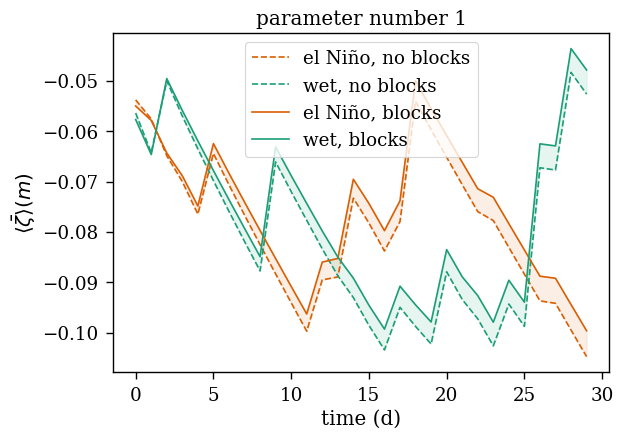
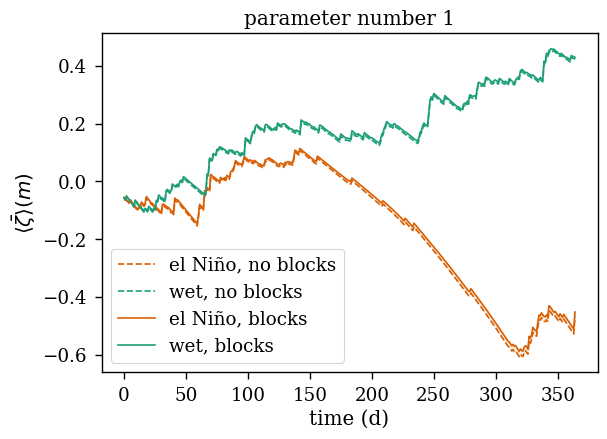
plots changes

diff --git a/classes/parameterizations.py b/classes/parameterizations.py
@@ -424,7 +424,7 @@ class ExponentialBelowOneAboveStorageWithDepth(AbstractParameterization):
         - T = \alpha * \zeta + \beta
     Below the surface:
         - S = s_1 e^{s2 * \zeta}
-        - T = t_1 * e^{t_2*\zeta}
+        - T = t_1 * (e^{t_2*\zeta} - e^{-t_2 * depth)}
     """
 
     def get_theta_knot(self, dem):
@@ -506,7 +506,7 @@ class ExponentialBelowOneAboveStorageWithDepth(AbstractParameterization):
 
         return diff_coeff
 
-    
+
     """
     Plotting stuff
     """
@@ -540,6 +540,138 @@ class ExponentialBelowOneAboveStorageWithDepth(AbstractParameterization):
         beta = t1/s1
         
         tra_pos = alpha*zeta_pos + beta
+        tra_neg = t1*(np.exp(t2*zeta) - np.exp(t2*b))
+
+        return tra_pos*positives_mask + tra_neg*negatives_mask
+
+
+class ExponentialBelowOneAboveStorageWithDepthExpoTrans(AbstractParameterization):
+    """
+    Storage and transmissivity are piecewise functions with 2 pieces:
+    below (zeta negative) and above (zeta positive) the surface.
+    S and T were chosen so that D is continuous and differentiable at the surface.
+    (This implies that T must be discontinuous, but that's fine!)
+    'WithDepth' means that the peat column depth is not neglected.
+
+    Main characteristics of this parameterization:
+    Above the surface:
+        - S = 1
+        - T = t3 * e^{t_4*\zeta}
+    Below the surface:
+        - S = s_1 e^{s2 * \zeta}
+        - T = t_1 * e^{t_2*\zeta}
+    """
+
+    def get_theta_knot(self, dem):
+        return self.s1/self.s2 * (1 - numerix.exp(-self.s2*dem))
+
+    def _get_piecewise_masks_in_theta(self, theta, dem):
+        theta_knot = self.get_theta_knot(dem)
+        mask_1 = 1*(theta >= theta_knot)
+        mask_2 = 1 - mask_1
+
+        return mask_1, mask_2
+
+    def _get_piecewise_masks_in_zeta(self, zeta):
+        positives_mask = 1*(zeta >= 0)
+        negatives_mask = 1 - positives_mask
+
+        return positives_mask, negatives_mask
+
+    def _mask_array_piecewise(self, arr, mask_1, mask_2):
+        return arr*mask_1, arr*mask_2
+
+    def theta_from_zeta(self, zeta, dem):
+        s1 = self.s1
+        s2 = self.s2
+
+        theta_knot = self.get_theta_knot(dem)
+        positives_mask, negatives_mask = self._get_piecewise_masks_in_zeta(
+            zeta)
+
+        theta_pos = zeta + theta_knot
+        theta_neg = s1/s2*(numerix.exp(s2*zeta) - numerix.exp(-s2*dem))
+
+        return theta_pos*positives_mask + theta_neg*negatives_mask
+
+    def zeta_from_theta(self, theta, dem):
+        s1 = self.s1
+        s2 = self.s2
+
+        theta_knot = self.get_theta_knot(dem)
+        mask_1, mask_2 = self._get_piecewise_masks_in_theta(theta, dem)
+
+        theta_knot_1, theta_knot_2 = self._mask_array_piecewise(
+            theta_knot, mask_1, mask_2)
+        theta_1, theta_2 = self._mask_array_piecewise(theta, mask_1, mask_2)
+
+        zeta_1 = theta_1 - theta_knot_1
+        zeta_2 = numerix.log(numerix.exp(-s2*dem) + s2/s1*theta)/s2
+
+        return zeta_1*mask_1 + zeta_2*mask_2
+
+    def diffusion(self, theta, dem, b):
+        s1 = self.s1
+        s2 = self.s2
+        t1 = self.t1
+        t2 = self.t2
+        
+        theta_knot = self.get_theta_knot(dem)
+        
+        mask_1, mask_2 = self._get_piecewise_masks_in_theta(theta, dem)
+
+        theta_1, theta_2 = self._mask_array_piecewise(theta, mask_1, mask_2)
+        dem_1, dem_2 = self._mask_array_piecewise(dem, mask_1, mask_2)
+        b_1, b_2 = self._mask_array_piecewise(b, mask_1, mask_2)
+        theta_knot_1, theta_knot_2 = self._mask_array_piecewise(theta_knot, mask_1, mask_2)
+
+        sto_2 = s1*numerix.exp(-s2*dem) + s2*theta_2
+        
+        depth_term = t1 * numerix.exp(-t2*b)/ sto_2
+        t3 = t1/s1 * (1 - numerix.exp(-t2*b))
+        t4 = (t2-s2)/s1 * 1/(1 - numerix.exp(-t2*b))
+        
+        diff_coeff_1 = t3 * numerix.exp(t4*(theta1 - theta_knot))
+        diff_coeff_2 = t1*sto_2**(t2/s2-1)/s1**(t2/s2) - depth_term
+        
+        diff_coeff = diff_coeff_1*mask_1 + diff_coeff_2*mask_2
+
+        return diff_coeff
+    
+    """
+    Plotting stuff
+    """
+    
+    def storage_from_zeta(self, zeta, dem):
+        import numpy as np
+        
+        positives_mask = 1*(zeta>0)
+        negatives_mask = 1 - positives_mask
+        zeta_pos, zeta_neg = self._mask_array_piecewise(zeta, positives_mask, negatives_mask)
+
+        sto_pos = 1
+        sto_neg = self.s1*np.exp(self.s2*zeta)
+
+        return sto_pos * positives_mask + sto_neg * negatives_mask
+
+
+    def transmissivity_from_zeta(self, zeta, dem, b):
+        import numpy as np
+        
+        s1 = self.s1
+        s2 = self.s2
+        t1 = self.t1
+        t2 = self.t2
+
+        t3 = t1/s1 * (1 - numerix.exp(-t2*b))
+        t4 = (t2-s2)/s1 * 1/(1 - numerix.exp(-t2*b))
+
+        positives_mask = 1*(zeta>0)
+        negatives_mask = 1 - positives_mask
+        zeta_pos, zeta_neg = self._mask_array_piecewise(zeta, positives_mask, negatives_mask)
+
+        
+        tra_pos = t3*(np.exp(t4*zeta))
         tra_neg = t1*(np.exp(t2*zeta) - np.exp(t2*b))
 
         return tra_pos*positives_mask + tra_neg*negatives_mask

diff --git a/results_plots.py b/results_plots.py
@@ -18,10 +18,10 @@ sns.set_context('paper', font_scale=1.5)
 
 # %% Params
 
-N_DAYS = 30
+N_DAYS = 365
 
-N_PARAMS = 2 
-params_to_plot = [1, 2]
+params_to_plot = [1, 2, 3, 4]
+N_PARAMS = len(params_to_plot)
 
 parent_folder = Path('.')
 output_folder = Path('output/plots')
@@ -496,8 +496,6 @@ axes[0,0].set_xlabel(r'$S$')
 axes[0,0].set_ylabel(r'$\zeta (m)$')
 axes[0,0].plot(S(zz, unique_s1_values[0], s2), zz,
              color='black', linestyle='solid')
-axes[0,0].plot(S(zz, unique_s1_values[1], s2), zz,
-             color='black', linestyle='dashed')
 
 # Transmissivity
 axes[0,1].grid(visible=True)
@@ -538,31 +536,18 @@ ax_D.grid(visible=True)
 ax_D.set_xlabel(r'$D(m^{2}d^{-1})$')
 ax_D.set_ylabel(r'$\zeta (m)$')
 # ax_D.set_xscale('log')
-ax_D.plot(D(zz, unique_t1_values[0], unique_t2_values[0], unique_s1_values[1], s2), zz,
+ax_D.plot(D(zz, unique_t1_values[0], unique_t2_values[0], unique_s1_values[0], s2), zz,
              color=param_colors[0], linestyle='solid',
              label='param_1')
-ax_D.plot(D(zz, unique_t1_values[0], unique_t2_values[1], unique_s1_values[1], s2), zz,
+ax_D.plot(D(zz, unique_t1_values[0], unique_t2_values[1], unique_s1_values[0], s2), zz,
              color=param_colors[1], linestyle='solid',
              label='param_2')
-ax_D.plot(D(zz, unique_t1_values[1], unique_t2_values[0], unique_s1_values[1], s2), zz,
+ax_D.plot(D(zz, unique_t1_values[1], unique_t2_values[0], unique_s1_values[0], s2), zz,
              color=param_colors[2], linestyle='solid',
              label='param_3')
-ax_D.plot(D(zz, unique_t1_values[1], unique_t2_values[1], unique_s1_values[1], s2), zz,
+ax_D.plot(D(zz, unique_t1_values[1], unique_t2_values[1], unique_s1_values[0], s2), zz,
              color=param_colors[3], linestyle='solid',
              label='param_4')
-ax_D.plot(D(zz, unique_t1_values[0], unique_t2_values[0], unique_s1_values[0], s2), zz,
-             color=param_colors[4], linestyle='solid',
-             label='param_5')
-ax_D.plot(D(zz, unique_t1_values[0], unique_t2_values[1], unique_s1_values[0], s2), zz,
-             color=param_colors[5], linestyle='solid',
-             label='param_6')
-ax_D.plot(D(zz, unique_t1_values[1], unique_t2_values[0], unique_s1_values[0], s2), zz,
-             color=param_colors[6], linestyle='solid',
-             label='param_7')
-ax_D.plot(D(zz, unique_t1_values[1], unique_t2_values[1], unique_s1_values[0], s2), zz,
-             color=param_colors[7], linestyle='solid',
-             label='param_8')
-
 
 # legend
 ax_D.legend()
@@ -634,4 +619,8 @@ ax_dry_twin.plot(range(len(dry_sourcesink)), np.cumsum(dry_sourcesink),
         color=modes[0]['color'])
 ax_dry.legend(loc='upper right')
 ax_wet.legend(loc='upper right')
+
+plt.savefig(output_folder.joinpath(f'P_minus_ET'), bbox_inches='tight')
 plt.show()
+
+# %%

diff --git a/main.py b/main.py
@@ -1,5 +1,5 @@
 # %%
-from classes.parameterizations import ExponentialBelowOneAboveStorageWithDepth
+from classes.parameterizations import ExponentialBelowOneAboveStorageWithDepth, ExponentialBelowOneAboveStorage 
 from classes.peatland_hydrology import PeatlandHydroParameters, set_up_peatland_hydrology
 from classes.peatland import Peatland
 from classes.channel_hydrology import set_up_channel_hydrology, CWLHydroParameters
@@ -95,7 +95,7 @@ graph = pickle.load(open((graph_fn), "rb"))
 channel_network = ChannelNetwork(
     graph, block_height_from_surface=0.0, block_coeff_k=2000.0,
     y_ini_below_DEM=-0.0, Q_ini_value=0.0, channel_bottom_below_DEM=8.0,
-    y_BC_below_DEM=-0.0, Q_BC=0.0, channel_width=3.5, work_without_blocks=not blockOpt)
+    y_BC_below_DEM=-0.5, Q_BC=0.0, channel_width=3.5, work_without_blocks=not blockOpt)
 
 peatland = Peatland(cn=channel_network, fn_pointers=fn_pointers)
 
@@ -124,7 +124,9 @@ cwl_hydro = set_up_channel_hydrology(model_type='diff-wave-implicit-inexact',
                                      cwl_params=cwl_params,
                                      cn=channel_network)
 
-parameterization = ExponentialBelowOneAboveStorageWithDepth(peat_hydro_params)
+# If you change this, change also other occurrences below!!
+# parameterization = ExponentialBelowOneAboveStorageWithDepth(peat_hydro_params)
+parameterization = ExponentialBelowOneAboveStorage(peat_hydro_params)
 
 hydro = set_up_peatland_hydrology(mesh_fn=mesh_fn, model_coupling='darcy',
                                   use_scaled_pde=False, zeta_diri_bc=-0.2,
@@ -216,7 +218,7 @@ def find_best_initial_condition(param_number, PARAMS, hydro, cwl_hydro, parent_d
     cwl_hydro.cwl_params.n1 = float(PARAMS[PARAMS.number == param_number].n1)
     cwl_hydro.cwl_params.n2 = float(PARAMS[PARAMS.number == param_number].n2)
 
-    hydro.parameterization = ExponentialBelowOneAboveStorageWithDepth(
+    hydro.parameterization = ExponentialBelowOneAboveStorage(
         hydro.ph_params)
 
     # Begin from complete saturation
@@ -361,7 +363,7 @@ def produce_family_of_rasters(param_number, PARAMS, hydro, cwl_hydro, net_daily_
     cwl_hydro.cwl_params.n1 = float(PARAMS[PARAMS.number == param_number].n1)
     cwl_hydro.cwl_params.n2 = float(PARAMS[PARAMS.number == param_number].n2)
 
-    hydro.parameterization = ExponentialBelowOneAboveStorageWithDepth(
+    hydro.parameterization = ExponentialBelowOneAboveStorage(
         hydro.ph_params)
 
     # Outputs will go here
@@ -471,7 +473,7 @@ if platform.system() == 'Linux':
 if platform.system() == 'Windows':
     hydro.verbose = True
     N_PARAMS = 1
-    param_numbers = [7,8]
+    param_numbers = [1,2,3]
     arguments = [(param_number, PARAMS, hydro, cwl_hydro, net_daily_source,
                   parent_directory) for param_number in param_numbers]
 
